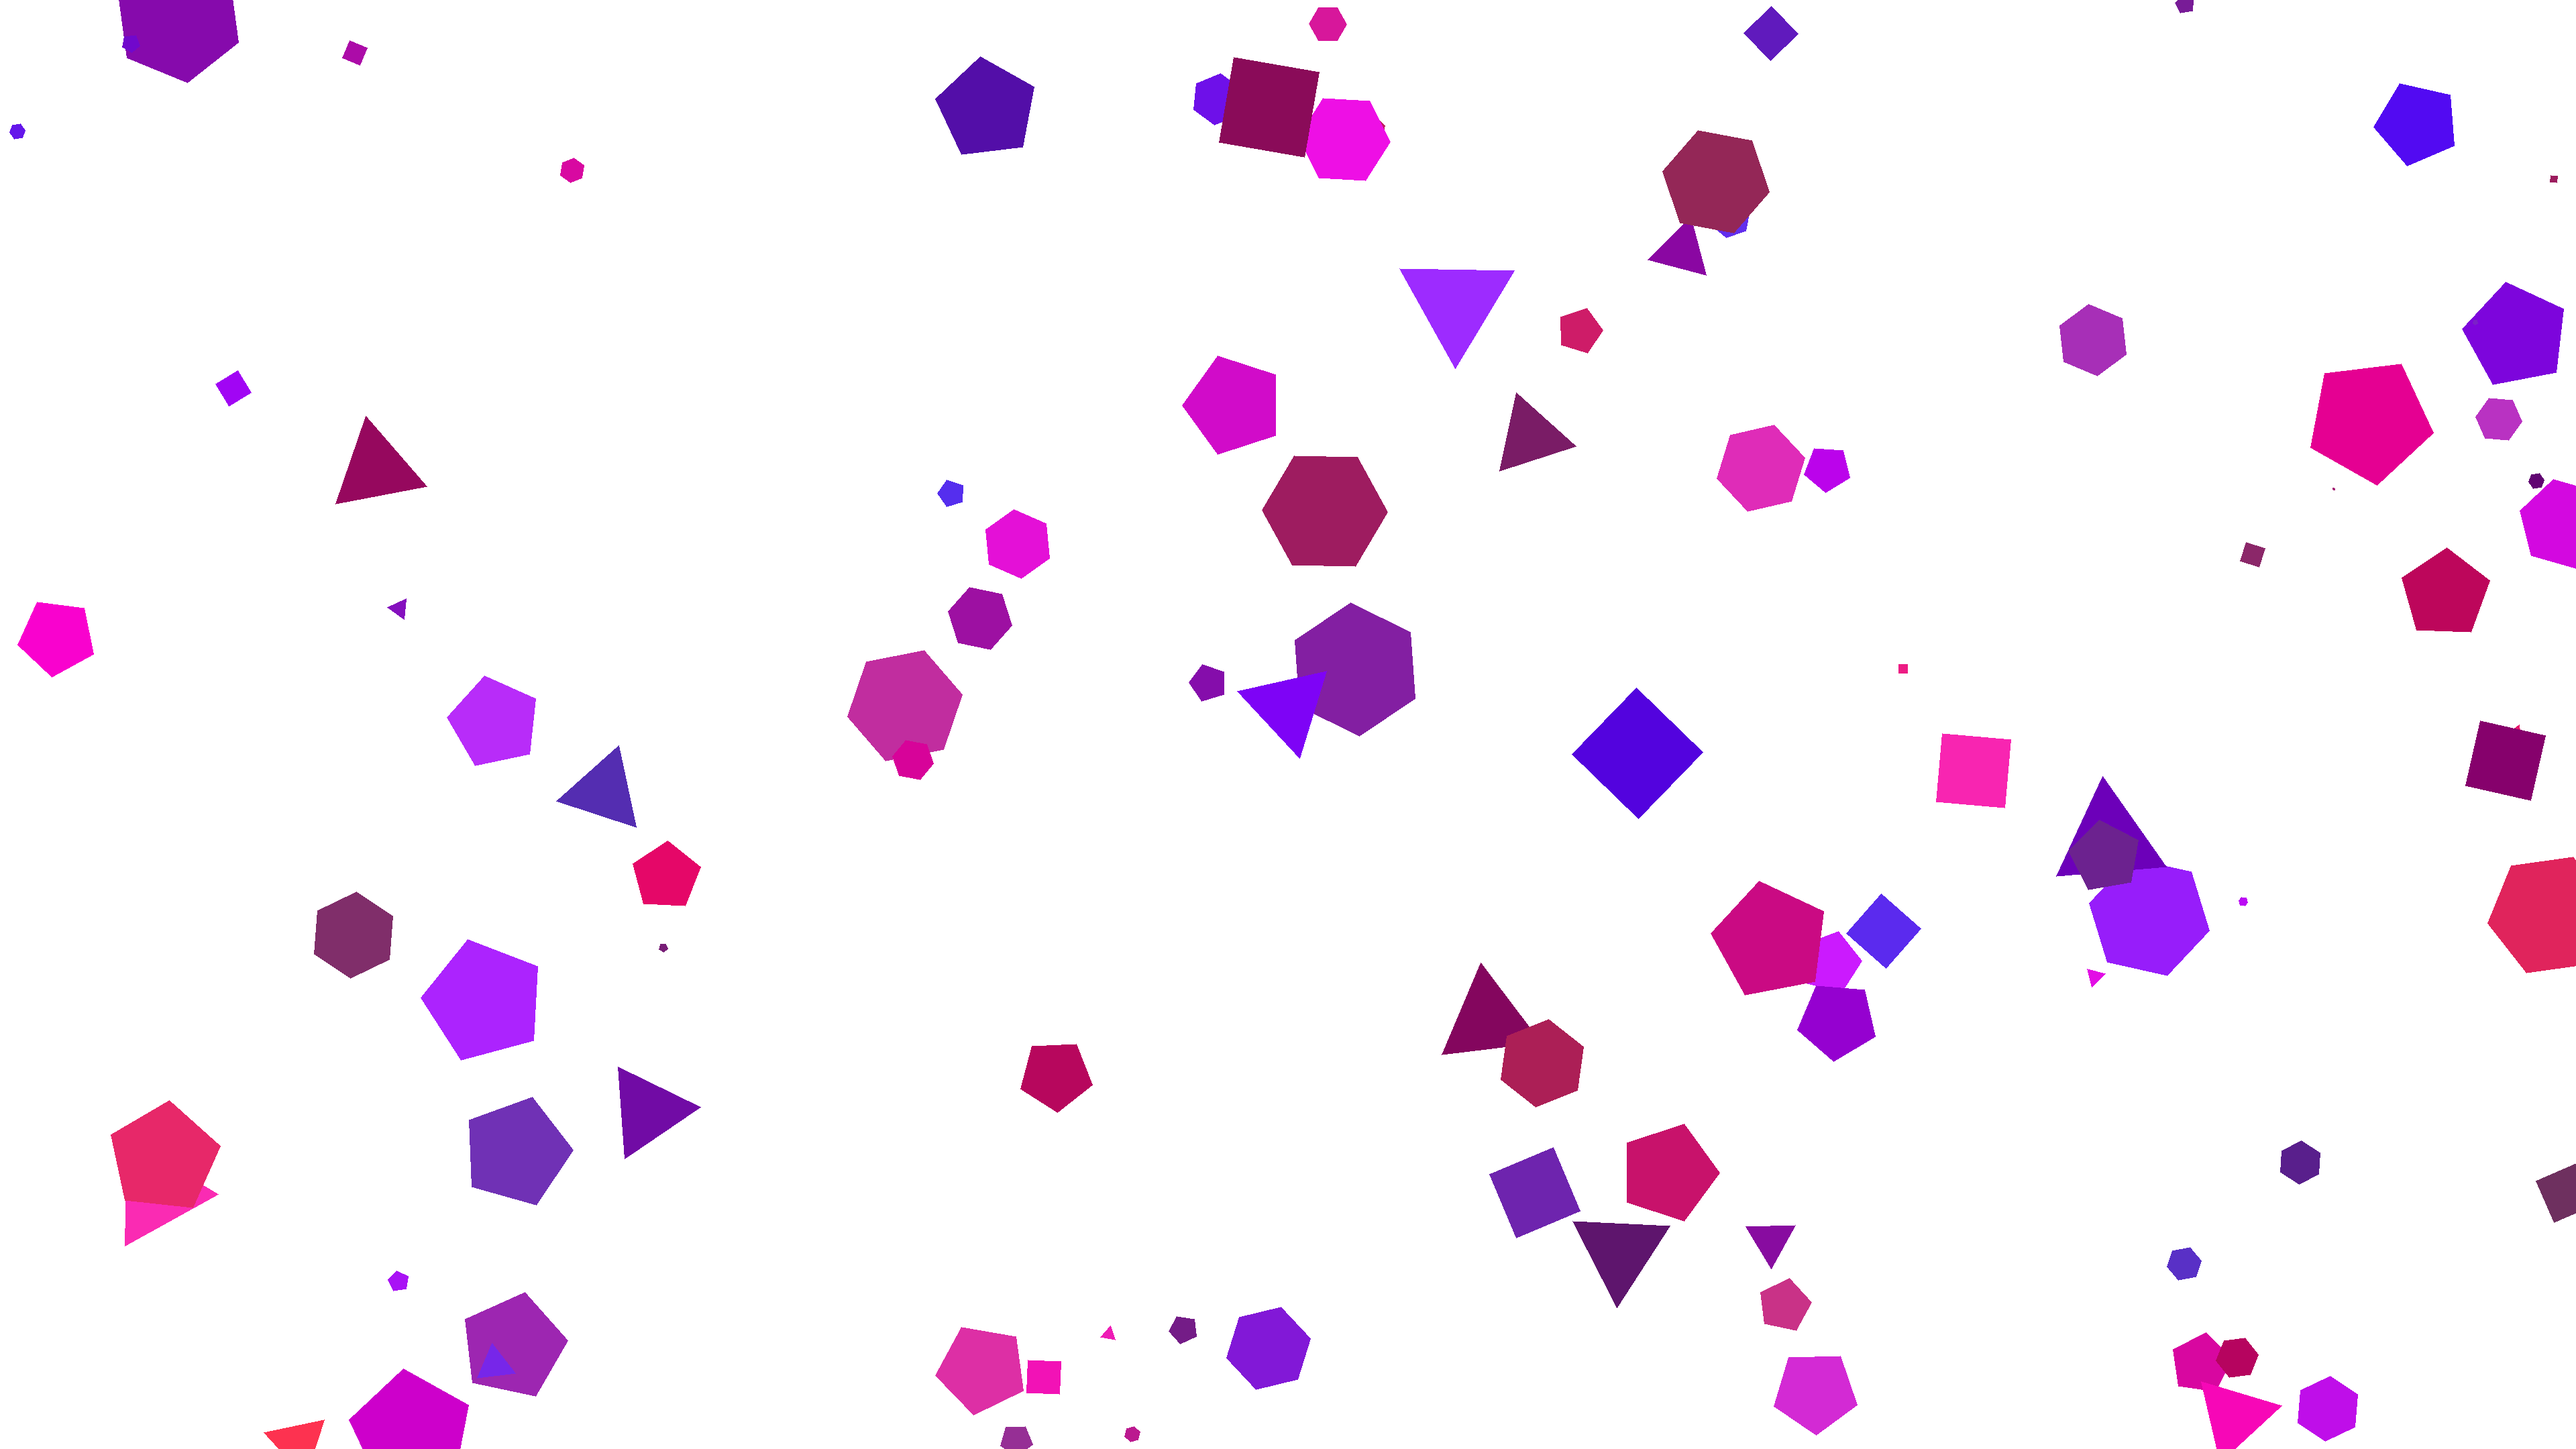
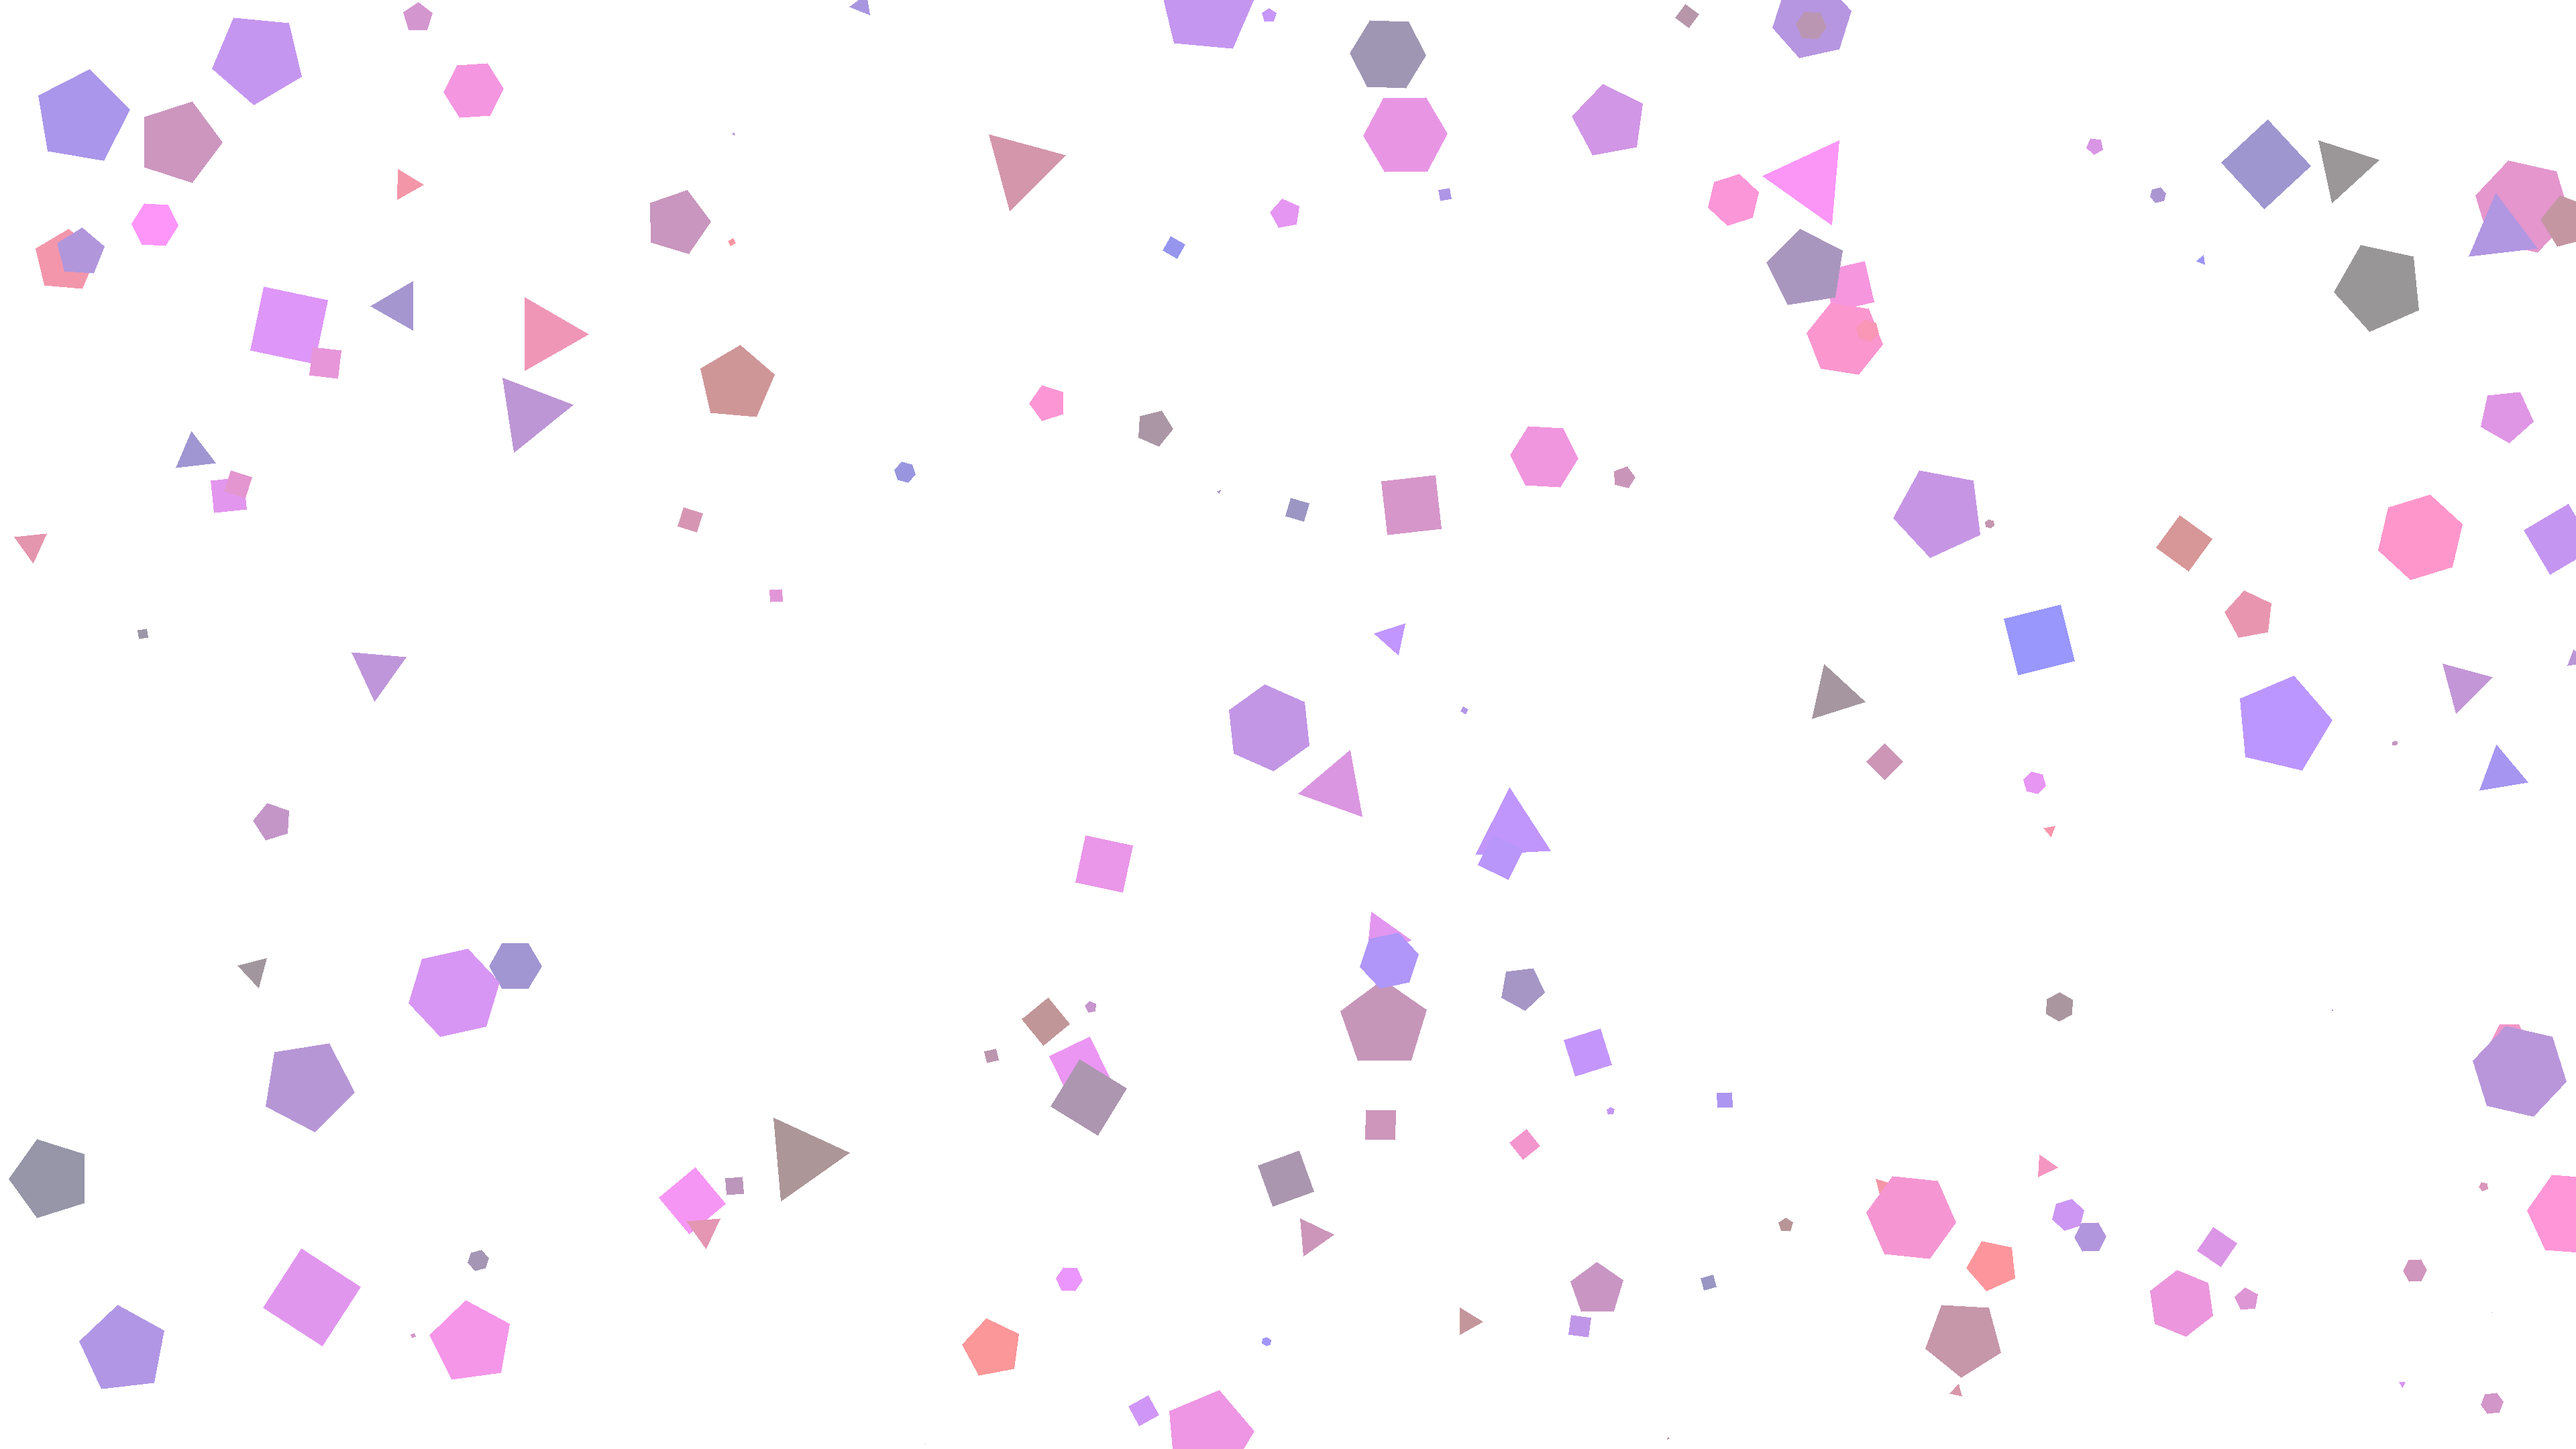
changed some saturation

diff --git a/assets/images/generaterandomshapes.py b/assets/images/generaterandomshapes.py
@@ -6,11 +6,11 @@ im = Image.new('RGBA', size,"white")
 
 draw = ImageDraw.Draw(im)
 
-for x in range(100):
-    color = (random.randint(80,255),random.randint(0,50),random.randint(80,255))
+for x in range(150):
+    color = (random.randint(150,255),random.randint(150,150),random.randint(150,255))
     center= (random.randint(1,size[0]),random.randint(1,size[1]))
     angle = random.randint(0,360)
-    scale = random.randint(0,100)
+    scale = random.randint(0,75)
     points = random.randint(3,6)
     pointlist = []
     for y in range(points):
